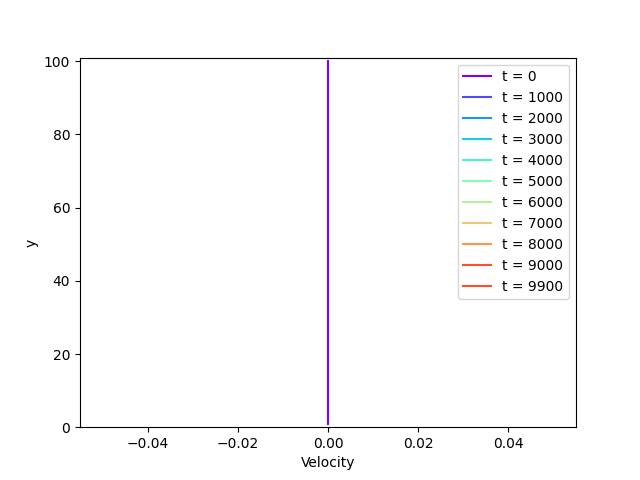
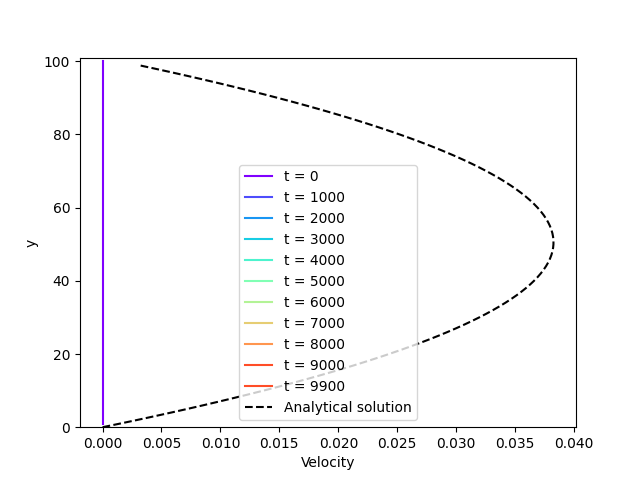
small bugfixes for poiseuille flow (still not working correctly)

diff --git a/LBM.py b/LBM.py
@@ -173,7 +173,7 @@ class LBM:
                 else:
                     raise ValueError("Boundary pressure is not defined correctly.")
                 
-                rho_input = (output_pressure + (output_pressure - input_pressure)) / self.c_s_squared
+                rho_input = (output_pressure + (input_pressure - output_pressure)) / self.c_s_squared
                 rho_output = output_pressure / self.c_s_squared               
                 self.pressure_boundary_instance = PressureBoundary(f_start_pipe_index_yx, f_end_pipe_index_yx, input_pressure, output_pressure, rho_input, rho_output, input_border_update_channels, output_border_update_channels, input_index, output_index, input_border_index, output_border_index)
 
@@ -412,7 +412,7 @@ class LBM:
 
         f_start_pipe_iy = self.f_iyx[:, :, self.pressure_boundary_instance.input_index]
         f_end_pipe_iy = self.f_iyx[:, :, self.pressure_boundary_instance.output_index]
-
+        
         self.f_input_border_pre_streaming = f_eq_pipe_input_pressure_iy + (f_end_pipe_iy - self.f_eq[:, :, self.pressure_boundary_instance.output_index])
         self.f_output_border_pre_streaming = f_eq_pipe_output_pressure_iy + (f_start_pipe_iy - self.f_eq[:, :, self.pressure_boundary_instance.input_index])
 
@@ -436,7 +436,7 @@ class LBM:
             self.f_iyx[8, -1, :] = 0
 
         # basic periodic boundary condition.
-        else:
+        elif self.boundary_pressure is None or (self.boundary_pressure is not None and self.boundary_pressure["bottom"] is None):
             # explicit handling because layer of nodes around grid is also filled by periodic boundary condition and needs to be handled
             self.f_iyx[4, 1, :] = self.f_iyx[4, -1, :]
             self.f_iyx[7, 1, :] = self.f_iyx[7, -1, :]
@@ -456,7 +456,7 @@ class LBM:
             self.f_iyx[6, 0, :] = 0
 
         # basic periodic boundary condition.
-        else:
+        elif self.boundary_pressure is None or (self.boundary_pressure is not None and self.boundary_pressure["top"] is None):
             # explicit handling because additional boundary layer of nodes around grid is also filled by periodic boundary condition and needs to be handled
             self.f_iyx[2, -2, :] = self.f_iyx[2, 0, :]
             self.f_iyx[5, -2, :] = self.f_iyx[5, 0, :]
@@ -476,8 +476,8 @@ class LBM:
             self.f_iyx[6, :, 0] = 0
             self.f_iyx[7, :, 0] = 0
 
-        # basic periodic boundary condition.
-        else:
+        # basic periodic boundary condition without pressure gradient.
+        elif self.boundary_pressure is None or (self.boundary_pressure is not None and self.boundary_pressure["left"] is None):
             # explicit handling because additional boundary layer of nodes around grid is also filled by periodic boundary condition and needs to be handled
             self.f_iyx[3, :, -2] = self.f_iyx[3, :, 0]
             self.f_iyx[6, :, -2] = self.f_iyx[6, :, 0]
@@ -497,7 +497,7 @@ class LBM:
             self.f_iyx[8, :, -1] = 0
 
         # basic periodic boundary condition.
-        else:
+        elif self.boundary_pressure is None or (self.boundary_pressure is not None and self.boundary_pressure["right"] is None):
             # explicit handling because additional boundary layer of nodes around grid is also filled by periodic boundary condition and needs to be handled
             self.f_iyx[1, :, 1] = self.f_iyx[1, :, -1]
             self.f_iyx[5, :, 1] = self.f_iyx[5, :, -1]

diff --git a/Milestone5_PoiseuilleFlow.py b/Milestone5_PoiseuilleFlow.py
@@ -64,7 +64,7 @@ def poiseuille_flow(grid_size_x : int, grid_size_y : int, omega : float, timeste
         if i % 1000 == 0 or i == indices[-1]:
             ax_vel_profile_Lx2.plot(np.array(simulated_velocity_field_Cyx)[0, 1:-1, lx2], y, label="t = " + str(i), color=colors[int(i/1000)])
 
-    ax_vel_profile_Lx2.plot(analytical_solution_y, np.arange(grid_size_y) , label="Analytical solution", color="black", linestyle="--")
+    # ax_vel_profile_Lx2.plot(analytical_solution_y, np.arange(grid_size_y) , label="Analytical solution", color="black", linestyle="--")
     ax_vel_profile_Lx2.legend()
     plt.savefig("PoiseuilleFlowResults/PoiseuilleFlow_VelocityProfile_Lx2_over_y.png")
     plt.show()
@@ -95,7 +95,7 @@ def calc_poiseuille_flow_analytical_solution(pipe_height : int, pipe_length : in
     derivative = pressure_difference / pipe_length
 
     y = np.arange(pipe_height)
-    analytical_solution = -0.5 * (1/dynamic_viscosity) * derivative * y * (pipe_height - 1 - y)
+    analytical_solution = 0.5 * (1/dynamic_viscosity) * derivative * y * (y - pipe_height - 1)
     return analytical_solution
 
 
